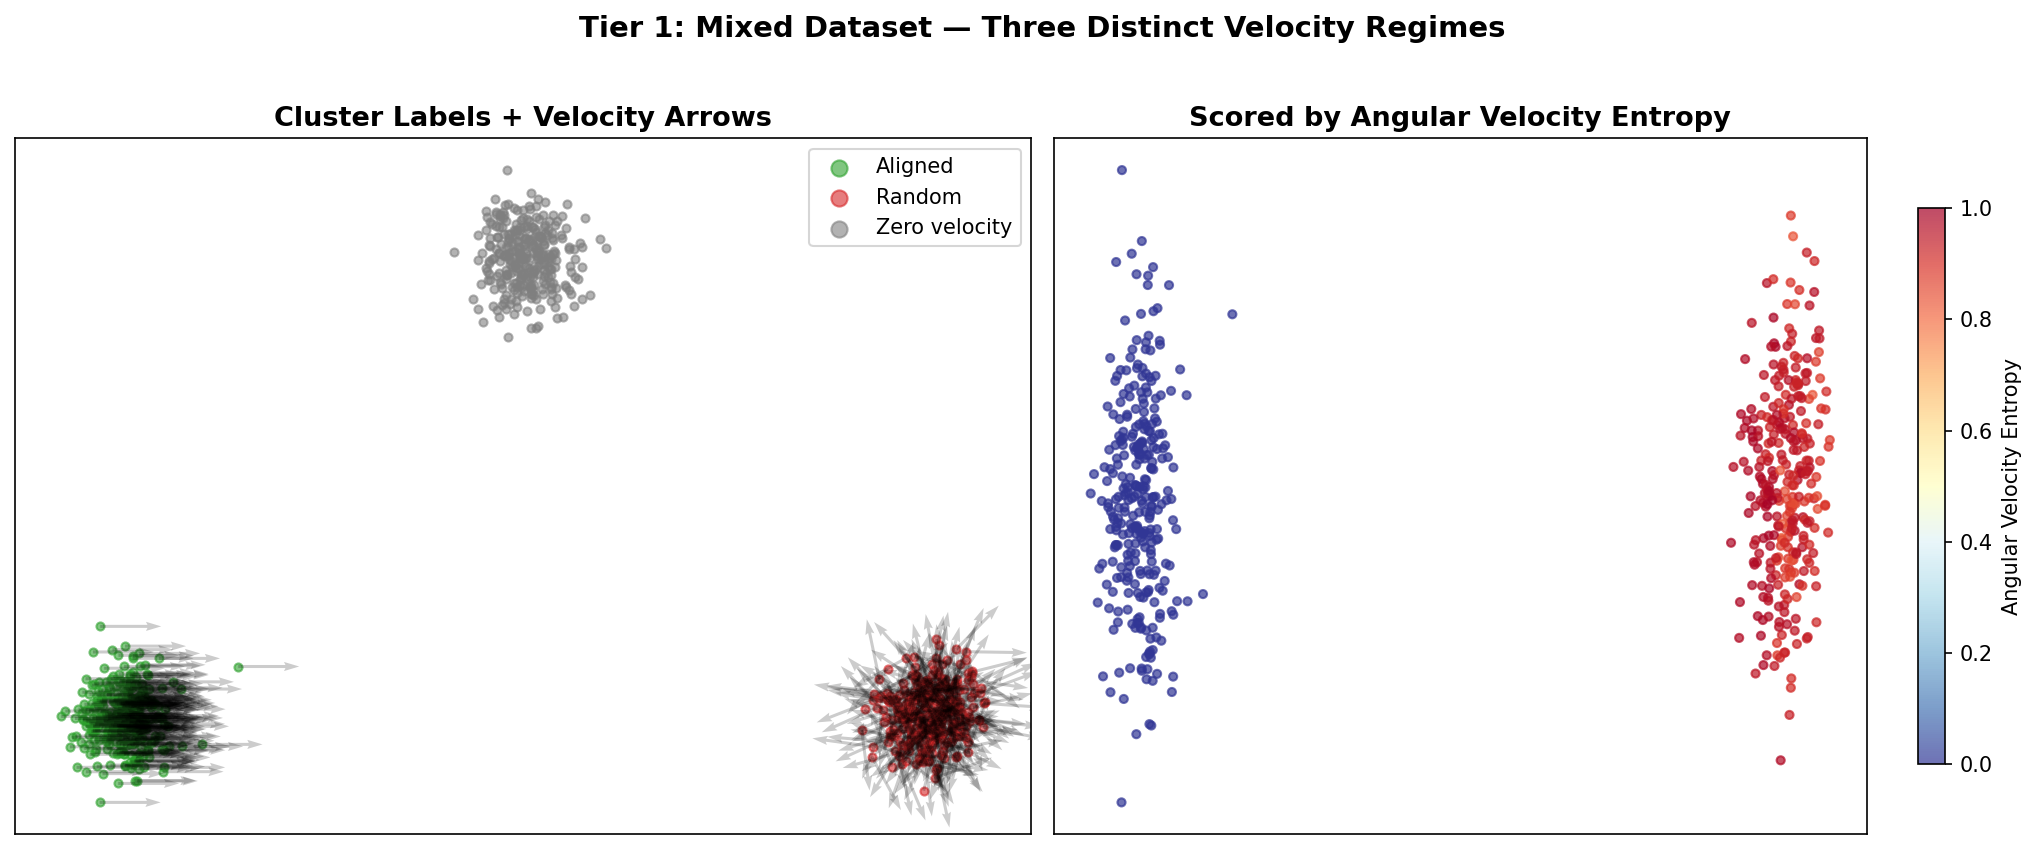
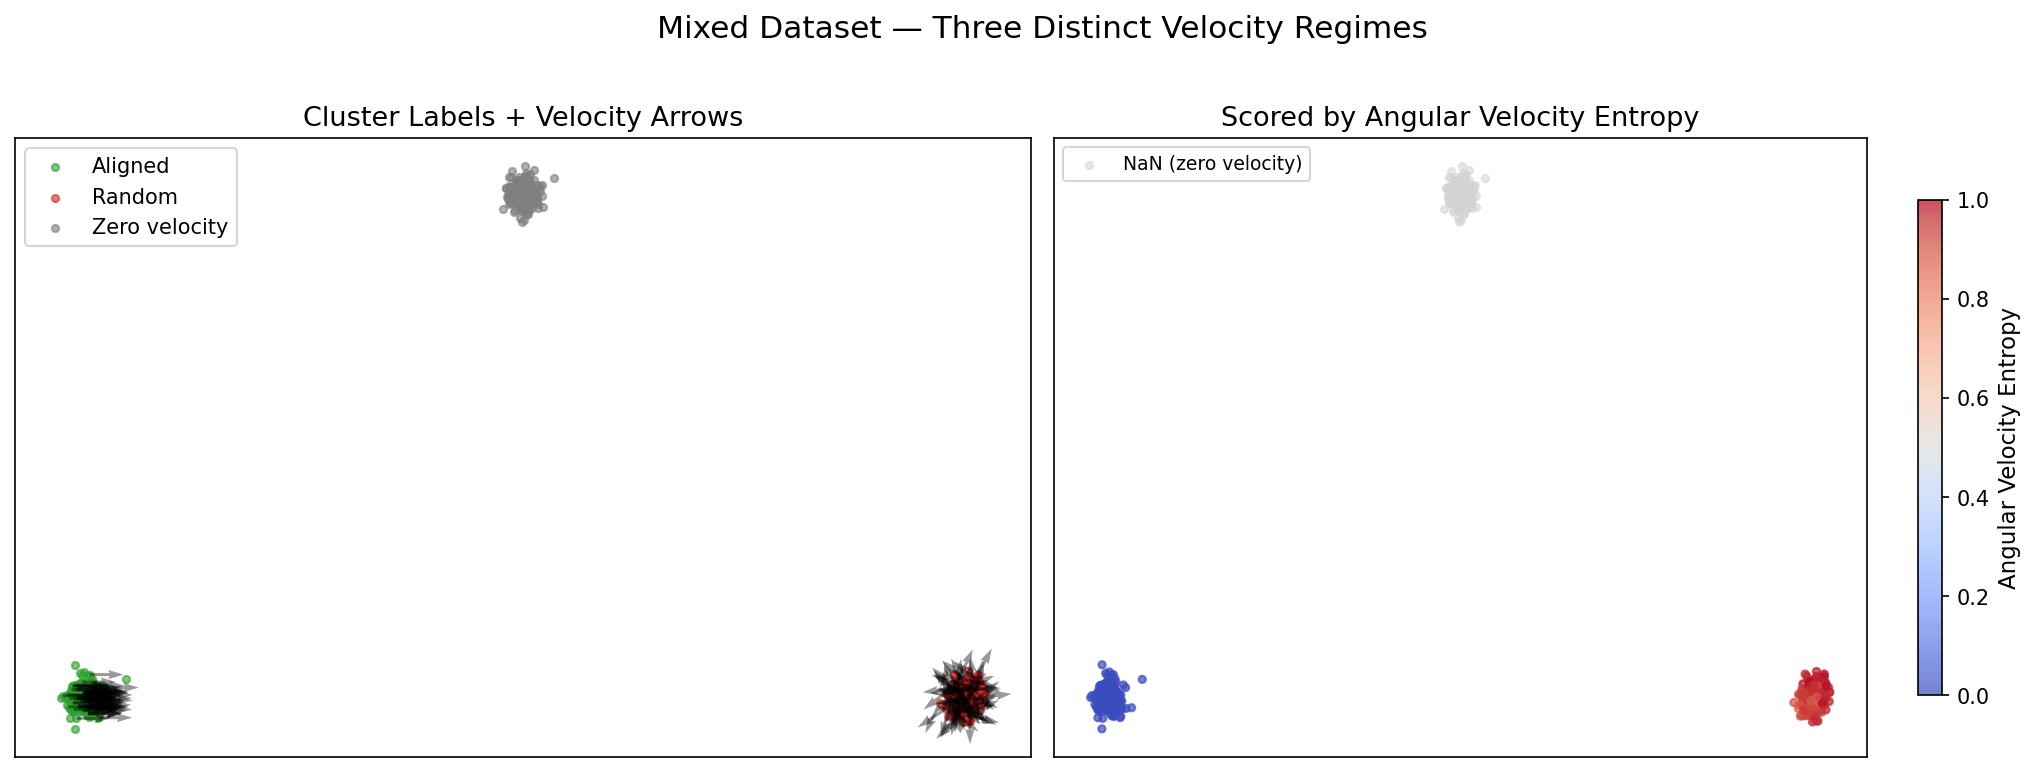
Fix figure labels, colorbar overlap, and rename tier files (#5)
* Add data/ to gitignore for downloaded dataset caches

https://claude.ai/code/session_01CB1F5YyzyFfjZRwQ6iurBA

* Update README: mark velocity entropy as experimental, add Status section

Clarify that angular velocity entropy is speculative and under active
validation. Add Status section with early findings from Tier 2 pancreas
testing, open questions about TIC discrimination and redundancy with
scVelo confidence, and a note to interpret results in context.

https://claude.ai/code/session_01CB1F5YyzyFfjZRwQ6iurBA

* Add expression entropy vs velocity entropy comparison figures

3-panel UMAP comparing cell types, pySCE expression entropy, and pySCEv
angular velocity entropy on the pancreas endocrinogenesis dataset. Scatter
plot shows r=0.02 correlation, confirming the two metrics capture nearly
independent biological information.

https://claude.ai/code/session_01CB1F5YyzyFfjZRwQ6iurBA

* Regenerate all figures: fix labels, colorbar overlap, and filenames

- Remove "(ours)" from pancreas UMAP panel titles
- Fix synthetic_scenarios.png colorbar overlapping Random panel
  (moved to dedicated gridspec column)
- Show NaN (zero velocity) cells as gray in mixed_dataset.png
- Rename tier2_* files to descriptive names:
  tier2_umap_panels.png → umap_panels.png
  tier2_boxplot.png → entropy_by_celltype.png
  tier2_scatter_vs_confidence.png → entropy_vs_confidence.png
- Remove "Tier 1/2" from all figure titles
- Update README status section to match
[…]

diff --git a/README.md b/README.md
@@ -93,8 +93,8 @@ See `examples/` for validation figures:
 **Angular Velocity Entropy** is speculative and under active validation. The core question is whether velocity-based entropy provides biological insight that expression entropy and existing tools (e.g., scVelo's velocity confidence) do not.
 
 **What we know so far:**
-- Tier 1 (synthetic): Math is sound. Clean separation between aligned (0), bifurcation (0.33), and random (1.0) velocity fields.
-- Tier 2 (pancreas): The metric captures meaningful structure — actively differentiating populations (Ngn3 high EP, Pre-endocrine) show low angular entropy (coherent flow), while quiescent or terminal populations show higher entropy (disordered neighborhoods). This is consistent with known biology but the interpretation differs from the initial hypothesis: low entropy marks active transitions, not necessarily "committed" fates. Anti-correlates with scVelo confidence (r ~ -0.48) but is not redundant.
+- Synthetic validation: Math is sound. Clean separation between aligned (0), bifurcation (0.33), and random (1.0) velocity fields.
+- Pancreas endocrinogenesis: The metric captures meaningful structure — actively differentiating populations (Ngn3 high EP, Pre-endocrine) show low angular entropy (coherent flow), while quiescent or terminal populations show higher entropy (disordered neighborhoods). This is consistent with known biology but the interpretation differs from the initial hypothesis: low entropy marks active transitions, not necessarily "committed" fates. Anti-correlates with scVelo confidence (r ~ -0.48) but is not redundant. Nearly uncorrelated with expression entropy (r ~ 0.02), confirming the two metrics capture independent biological information.
 
 **Open questions:**
 - Does angular velocity entropy distinguish TICs from normal stem cells in practice?
